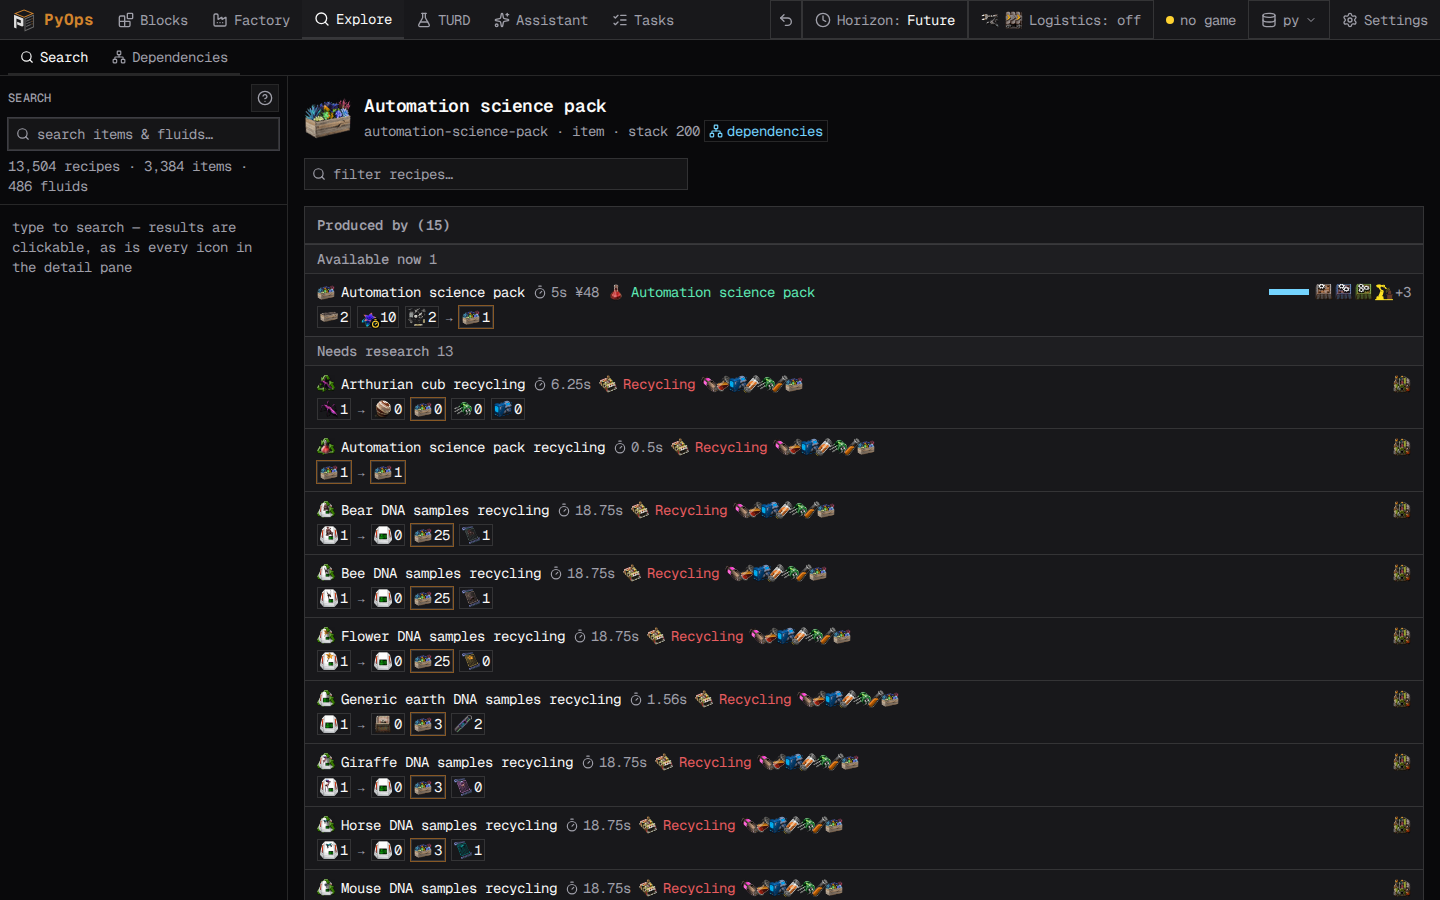
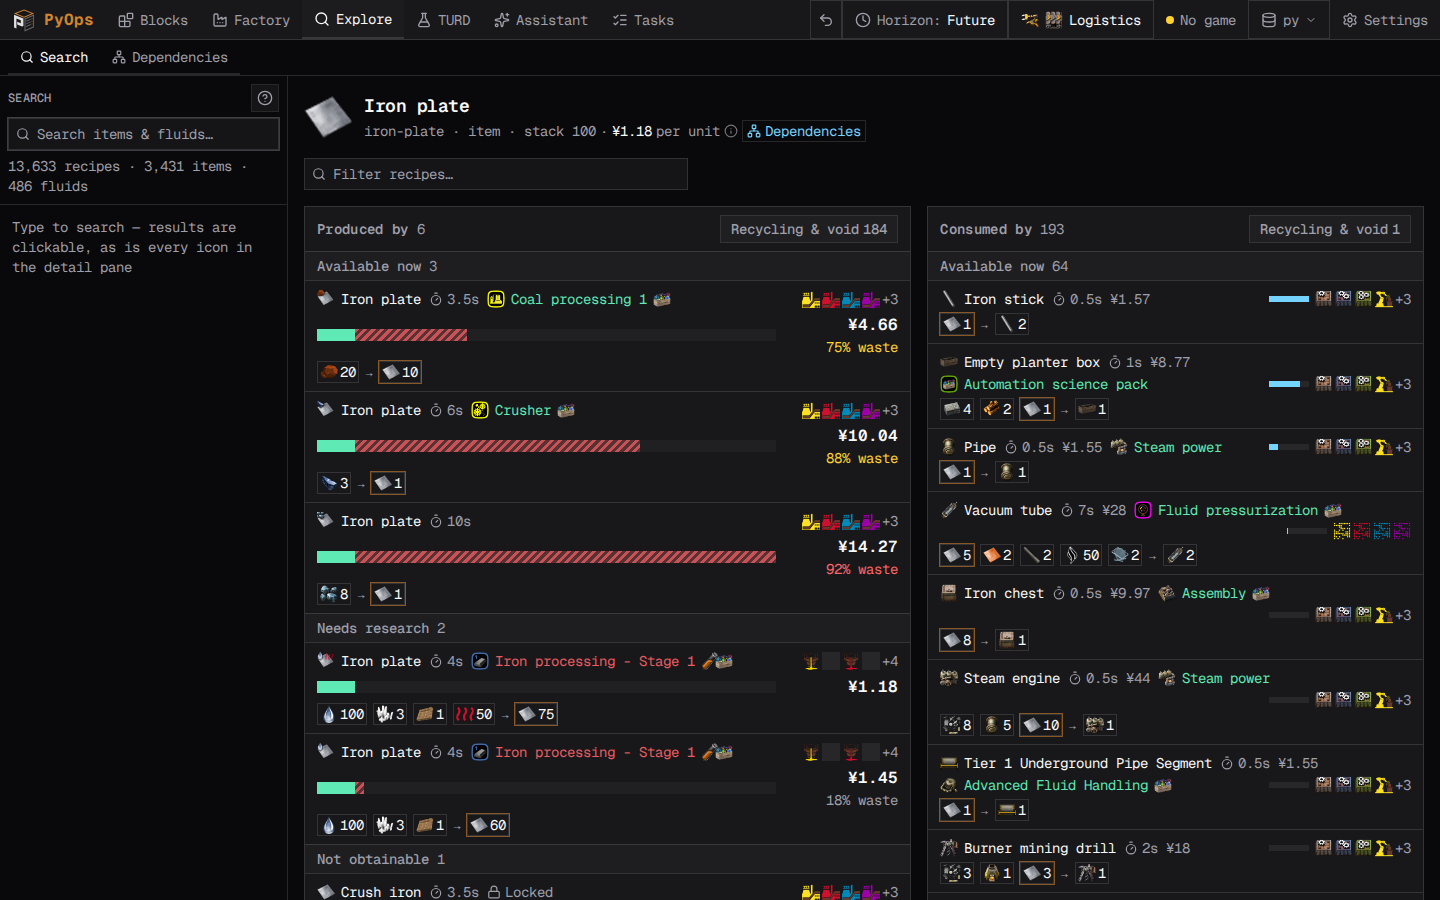
docs(docs): describe the Explore price ladder and recycling toggle
Refs #199

diff --git a/docs/guide/explore.md b/docs/guide/explore.md
@@ -16,10 +16,24 @@ active project's synced Factorio data and do not change the plan.
 2. Search under **items & fluids** using the localized name.
 3. Select a result.
 
-The detail pane shows the good's properties and two recipe groups:
+The detail pane shows the good's properties, its estimated price in ¥ per unit, and two
+recipe lists:
 
-- **Produced by** lists recipes that create it.
-- **Consumed by** lists recipes that use it.
+- **Produced by** lists recipes that create it, cheapest per unit first within each
+  availability group. Each row has a bar of its ¥ per unit of the selected good, on one
+  scale for the whole list. The solid part is the good's price. The hatched part is waste,
+  the value the recipe spends beyond what its products are worth. A recipe with several
+  outputs splits its cost by each output's share of the output value.
+- **Consumed by** lists recipes that use it, busiest first, with their cost per craft.
+
+Recycling and void recipes are hidden by default. Turn on **Recycling & void** in a list's
+header to show them in their own group at the bottom.
+
+On a wide window the two lists sit side by side. On a narrow window they become two tabs,
+**Produced by** and **Consumed by**.
+
+¥ is the cost analysis estimate of a recipe's inputs, machine time, and power. It is not an
+in-game currency. Lower is cheaper.
 
 Select an ingredient or product chip to move to that good and walk through the recipe
 graph. This is useful when comparing overhaul-mod recipe tiers or tracing an unfamiliar
@@ -30,9 +44,9 @@ temperature. The internal prototype name is available for debugging and Assistan
 references, but ordinary planning uses the localized display name.
 
 <AppScreenshot
-  src="/images/browse-automation-science.png"
-  alt="The Explore Search view for Automation science pack, with available and research-locked producer recipes"
-  caption="Search groups the recipes that produce a good by current availability and keeps their inputs, outputs, machines, and unlocks visible."
+  src="/images/explore-iron-plate.png"
+  alt="The Explore Search view for Iron plate, with producer recipes on a price ladder beside the consumer list"
+  caption="Producers of Iron plate ranked by ¥ per plate. The cheapest available recipe still wastes 75% of its input value."
 />
 
 ## Walk the full tree with Dependencies
